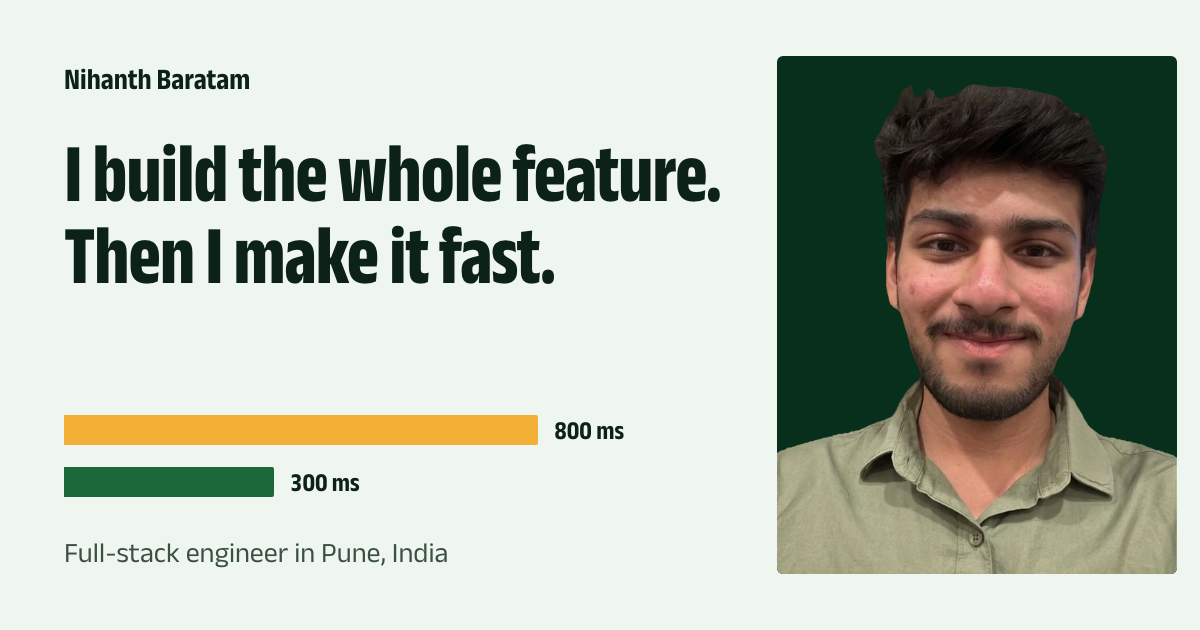
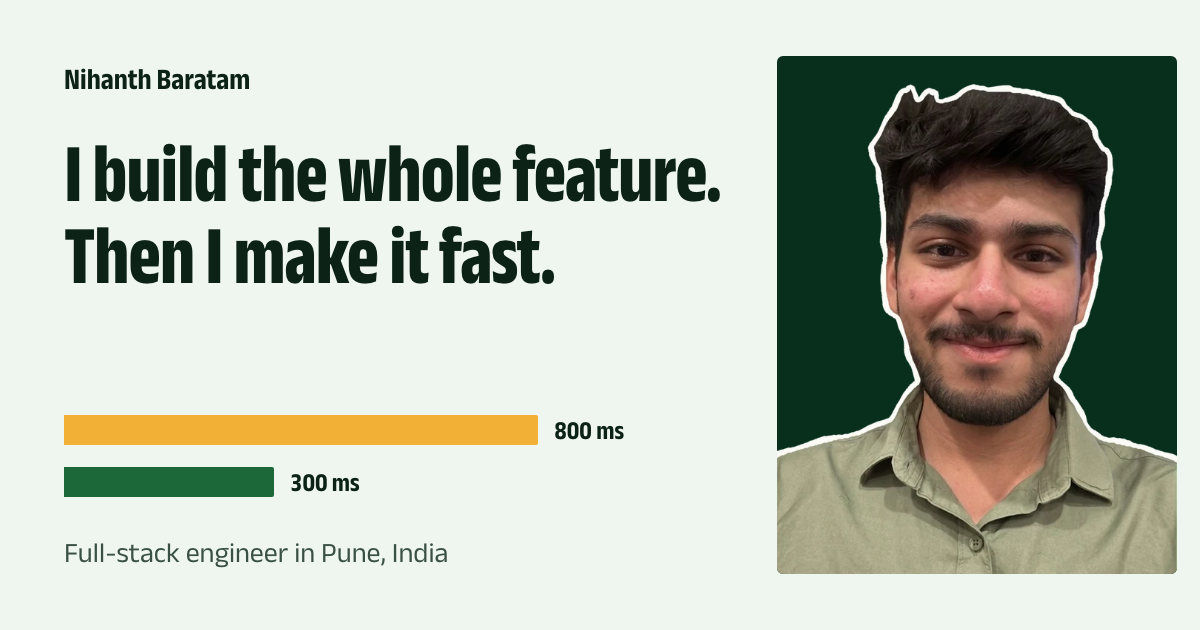
Give the portrait a white sticker outline in place of the rectangular frame
The outline follows the cut-out's silhouette with a slightly uneven,
hand-cut edge. The link preview image is regenerated to match.

Changed region(s): [[0.6475, 0.1206, 0.9867, 0.9048]]

diff --git a/src/styles/global.css b/src/styles/global.css
@@ -8,7 +8,6 @@
 :root {
   --paper: oklch(0.965 0.012 150);
   --paper-2: oklch(0.935 0.02 150);
-  --frame: oklch(0.992 0.004 150);
   --ink: oklch(0.23 0.035 158);
   --ink-2: oklch(0.41 0.035 158);
   --rule: oklch(0.85 0.028 152);
